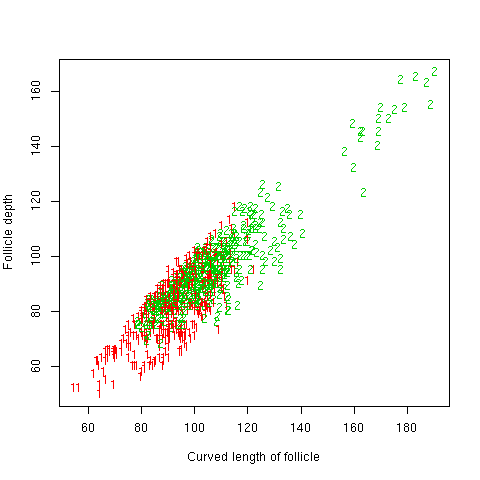
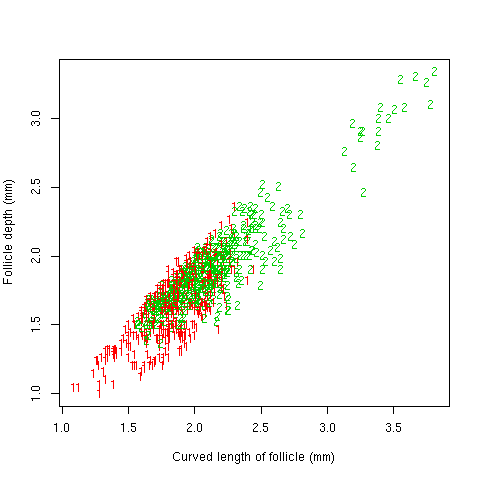
Units to mm

diff --git a/supplementary/depthandcurv/tabaov.tex b/supplementary/depthandcurv/tabaov.tex
@@ -1,19 +1,20 @@
 %FOLLDEP
-\label{tab:aov}
+%\label{tab:aov}
 \begin{table}[ht]
 \centering
 \caption{Analyses of variance of Follicle depth, Follicle straight length, Follicle curved length, and Follicle radius of curvature}
+\label{tab:aov}
 \begin{tabular}{lrrrrr}
   \hline
  & & Follicle depth & & & \\
  Effect & Df & Sum Sq & Mean Sq & F value & Pr($>$F) \\ 
   \hline
   Error: Sheep & & & & &  \\
-Flock     & 1 & 1.08 & 1.08 & 0.00 & 0.9861 \\ 
-  Skin.type & 1 & 35822.56 & 35822.56 & 10.16 & 0.0031 \\ 
-  Residuals & 33 & 116320.51 & 3524.86 &  &  \\ 
+Flock     & 1 & 0.00432 & 0.00432 & 0.00 & 0.9861 \\ 
+  Skin.type & 1 & 14.329 & 14.329 & 10.16 & 0.0031 \\ 
+  Residuals & 33 & 46.5282 & 1.4099 &  &  \\ 
   Error: Within & & & & &  \\
-  Residuals1 & 860 & 59641.23 & 69.35 &  &  \\ 
+  Residuals1 & 860 & 23.856 & 0.02774 &  &  \\ 
    \hline
 %\end{tabular}
 %\end{table}
@@ -27,11 +28,11 @@ Flock     & 1 & 1.08 & 1.08 & 0.00 & 0.9861 \\
  Effect & Df & Sum Sq & Mean Sq & F value & Pr($>$F) \\ 
   \hline
   Error: Sheep & & & & &  \\
-Flock     & 1 & 5218.12 & 5218.12 & 1.32 & 0.2591 \\ 
-  Skin.type & 1 & 21042.58 & 21042.58 & 5.32 & 0.0275 \\ 
-  Residuals & 33 & 130612.06 & 3957.94 &  &  \\ 
+Flock     & 1 & 2.0872 & 2.0872 & 1.32 & 0.2591 \\ 
+  Skin.type & 1 & 8.4170 & 8.4170 & 5.32 & 0.0275 \\ 
+  Residuals & 33 & 52.24 & 1.5832 &  &  \\ 
   Error: Within & & & & &  \\
-  Residuals1 & 860 & 66226.12 & 77.01 &  &  \\ 
+  Residuals1 & 860 & 26.490 & 0.0308 &  &  \\ 
    \hline
 %\end{tabular}
 %\end{table}
@@ -45,11 +46,11 @@ Flock     & 1 & 5218.12 & 5218.12 & 1.32 & 0.2591 \\
  Effect & Df & Sum Sq & Mean Sq & F value & Pr($>$F) \\ 
   \hline
   Error: Sheep & & & & &  \\
-Flock     & 1 & 4251.50 & 4251.50 & 1.03 & 0.3180 \\ 
-  Skin.type & 1 & 44711.74 & 44711.74 & 10.81 & 0.0024 \\ 
-  Residuals & 33 & 136454.62 & 4134.99 &  &  \\ 
+Flock     & 1 & 1.7006 & 1.7006 & 1.03 & 0.3180 \\ 
+  Skin.type & 1 & 17.885 & 17.885 & 10.81 & 0.0024 \\ 
+  Residuals & 33 & 54.582 & 1.654 &  &  \\ 
   Error: Within & & & & &  \\
-  Residuals1 & 860 & 75424.61 & 87.70 &  &  \\ 
+  Residuals1 & 860 & 30.169 & 0.3508 &  &  \\ 
    \hline
 %\end{tabular}
 %\end{table}
@@ -63,11 +64,11 @@ Flock     & 1 & 4251.50 & 4251.50 & 1.03 & 0.3180 \\
  Effect & Df & Sum Sq & Mean Sq & F value & Pr($>$F) \\ 
   \hline
   Error: Sheep & & & &  & \\
-Flock     & 1 & 239208.35 & 239208.35 & 1.31 & 0.2603 \\ 
-  Skin.type & 1 & 16554724.49 & 16554724.49 & 90.79 & 0.0000 \\ 
-  Residuals & 33 & 6017368.02 & 182344.49 &  &  \\ 
+Flock     & 1 & 95.683 & 95.683 & 1.31 & 0.2603 \\ 
+  Skin.type & 1 & 6621.89 & 6621.89 & 90.79 & 0.0000 \\ 
+  Residuals & 33 & 2406.947 & 72.9378 &  &  \\ 
   Error: Within & & & & &  \\
-  Residuals1 & 860 & 20509483.53 & 23848.24 &  &  \\ 
+  Residuals1 & 860 & 8203.793 & 9.5393 &  &  \\ 
    \hline
 \end{tabular}
 \end{table}

diff --git a/supplementary/depthandcurv/depthandcurv.tex b/supplementary/depthandcurv/depthandcurv.tex
@@ -40,16 +40,16 @@ On each sheep 25 follicles chosen at random were measured on a vertical skin sec
 The following measurements and scores were available. All measurements were in units of 0.02 mm. 
 \begin{description}
 \item[SkinType] visual scores for sheep skin type. Two grades "loose" and "wrinkly". 
-\item[Follicle depth] perpendicular distance from skin surface to bottom of follicle bulb
-\item[Follicle straight length(t)] distance from skin surface to bottom of follicle bulb, measured at the angle of the follicle to the surface.
+\item[Follicle depth] perpendicular distance from skin surface to bottom of follicle bulb (mm)
+\item[Follicle straight length(t)] distance from skin surface to bottom of follicle bulb, measured at the angle of the follicle to the surface.(mm)
 \item[Follicle sagitta(h)] If the straight follicle length is considered to be the chord of a circle, the sagitta is the height of the arc above the centre of the chord.
 \end{description}
 
 From these measurements it was possible to calculate
 \begin{description}
-\item[Radius of curvature of follicle]  given by $R = h/2 + t^{2}/(8h)$
-\item[Angle subtended by the arc] given by $\theta = 2 asin(2/(2R))$
-\item[Follicle curved length] given by $S = R \theta$
+\item[Radius of curvature of follicle]  given by $R = h/2 + t^{2}/(8h)$ (mm)
+\item[Angle subtended by the arc] given by $\theta = 2 asin(2/(2R))$ (radians)
+\item[Follicle curved length] given by $S = R \theta$ (mm)
 \end{description}
 
 The measurement of fibre curvature used by the wool industry is the reciprocal of radius of curvature and is in degrees per mm. The reciprocal of our $R$ would be in radians per mm.
@@ -62,7 +62,7 @@ Data were imported into the R statistical program~\cite{rprog:13} and analysed u
 \subsection{Means}
 Means for each Skintype within each Flock are given in Table~\ref{tab:means}
 \input{tabmeans.tex}
-All four traits ( Follicle depth, straight follicle lenfgth, curved follicle length, and radius of curvature) would appear to differ substantially between loose and wrinkly Skintypes, but the two Flocks would seem to be similar.
+All four traits ( Follicle depth, straight follicle length, curved follicle length, and radius of curvature) would appear to differ substantially between loose and wrinkly Skintypes, but the two Flocks would seem to be similar.
 
 We do not present standard deviations or standard errors here.  The experimental design has multiple error levels. There are two random effects, Sheep, and Follicles within Sheep. Each of these contributes to the standard error of a mean. We need to estimate variance components for Sheep and Follicles to do the standard errors properly. 
 

diff --git a/supplementary/depthandcurv/tabmeans.tex b/supplementary/depthandcurv/tabmeans.tex
@@ -11,10 +11,10 @@
 \begin{tabular}{|p{0.5in}|p{0.6in}|p{0.6in}|p{0.6in}|p{0.6in}|p{0.6in}|} \hline
   Flock & Skin.type & Folldepth & Straightlen & Curvlen  & Radcurv\\   
     \hline
-  1 & loose & 91.95 & 91.37 & 91.95 & 348.5  \\ 
-  2 & loose & 92.68 & 92.32 & 92.68 & 449.5  \\ 
-  1 & wrinkly & 111.10 & 106.80 & 111.10 & 146.2 \\ 
-  2 & wrinkly & 101.74 & 96.23 & 101.74 & 107.5  \\ 
+  1 & loose & 1.839 & 1.827 & 1.839 & 6.97  \\ 
+  2 & loose & 1.854 & 1.846 & 1.854 & 8.99  \\ 
+  1 & wrinkly & 2.222 & 2.136 & 2.222 & 2.92 \\ 
+  2 & wrinkly & 2.035 & 1.925 & 2.035 & 2.15  \\ 
    \hline
 \end{tabular}
 \end{table}

diff --git a/supplementary/depthandcurv/tabse.tex b/supplementary/depthandcurv/tabse.tex
@@ -11,9 +11,9 @@
 \begin{tabular}{|p{1.6in}|p{0.6in}|p{0.6in}|p{0.6in}|p{0.6in}|} \hline
    & Folldepth & Straightlen & Curvlen  & Radcurv\\   
     \hline
- Sheep component & 138.22 & 155.24 & 161.89 & 6339 \\
- Follicles component & 69.35 & 77.01 & 87.70 & 23848\\
- Standard error of mean & 3.95 & 4.19 & 4.28 & 28.46\\
+ Sheep component & 0.055288 & 0.062096 & 0.064756 & 2.535 \\
+ Follicles component & 0.02774 & 0.030804 & 0.03508 & 9.539\\
+ Standard error of mean & 0.079 & 0.084 & 0.085 & 0.569\\
    \hline
 \end{tabular}
 \end{table}

diff --git a/supplementary/depthandcurv/tabskintype.tex b/supplementary/depthandcurv/tabskintype.tex
@@ -11,9 +11,9 @@
 \begin{tabular}{|p{0.6in}|p{0.6in}|p{0.6in}|p{0.6in}|p{0.6in}|} \hline
    Skin.type & Folldepth & Straightlen & Curvlen  & Radcurv\\   
     \hline
-  Mean loose & 82.5 & 91.86 & 92.32 & 399.0  \\ 
-  Mean wrinkly & 95.14 & 101.6 & 106.5 & 127.1 \\ 
-  Standard error & 2.79 & 2.96 & 3.03 & 20.12  \\ 
+  Mean loose & 1.650 & 1.837 & 1.846 & 7.89  \\ 
+  Mean wrinkly & 1.903 & 2.032 & 2.130 & 2.54 \\ 
+  Standard error & 0.0558 & 0.0592 & 0.0606 & 0.4024  \\ 
    \hline
 \end{tabular}
 \end{table}

diff --git a/supplementary/depthandcurv/figcurvxcurvlenxh.tex b/supplementary/depthandcurv/figcurvxcurvlenxh.tex
@@ -5,7 +5,7 @@
 \begin{figure}[!h]
   \centering
   \includegraphics[width=1.0\textwidth]{curvxcurvlenxh.png}
-  \caption{Plot of  1/Radius of curvature against curved length of follicles. The sagitta height (h) is shown as point labels rangeing from 1 to 29}
+  \caption{Plot of  1/Radius of curvature against curved length of follicles. The sagitta height (h) is shown as point labels which are sagitta height scaled by 10}
   \label{fig:curvxcurvlenxh}
 \end{figure}
 
